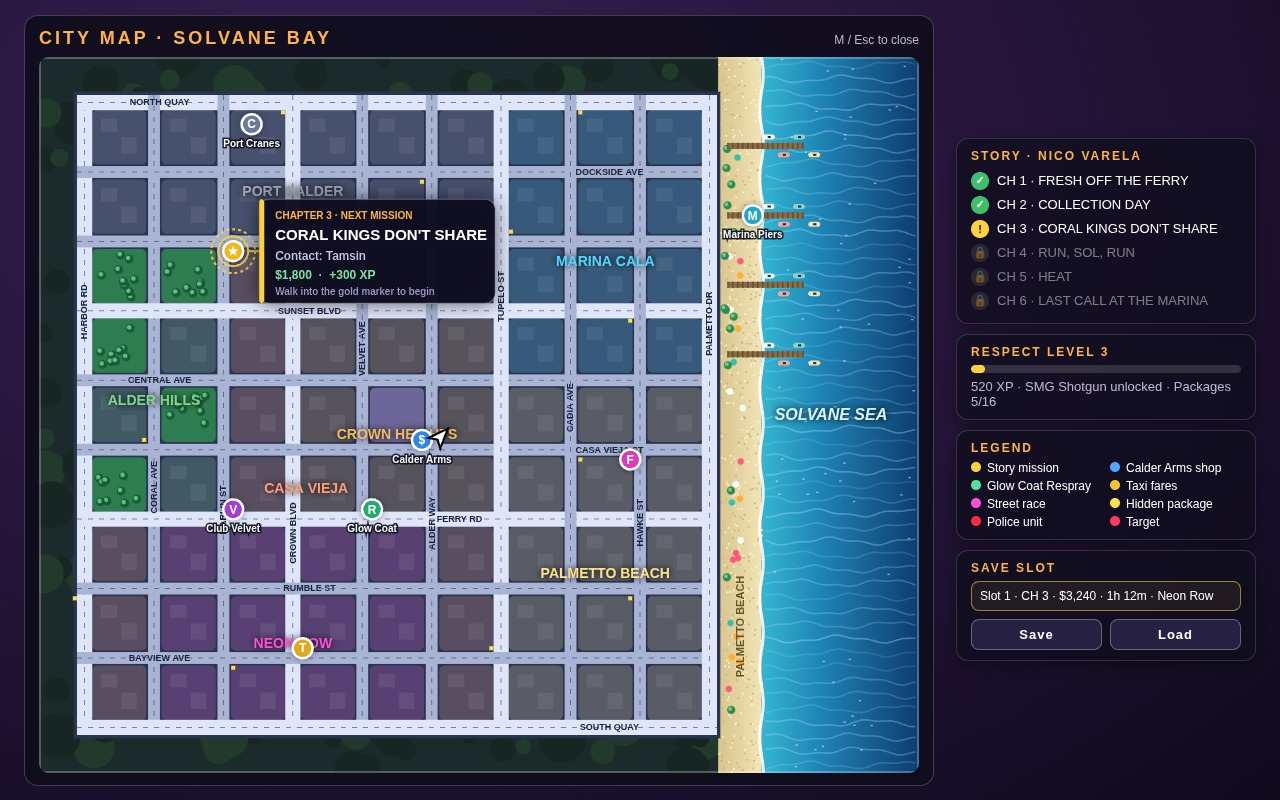
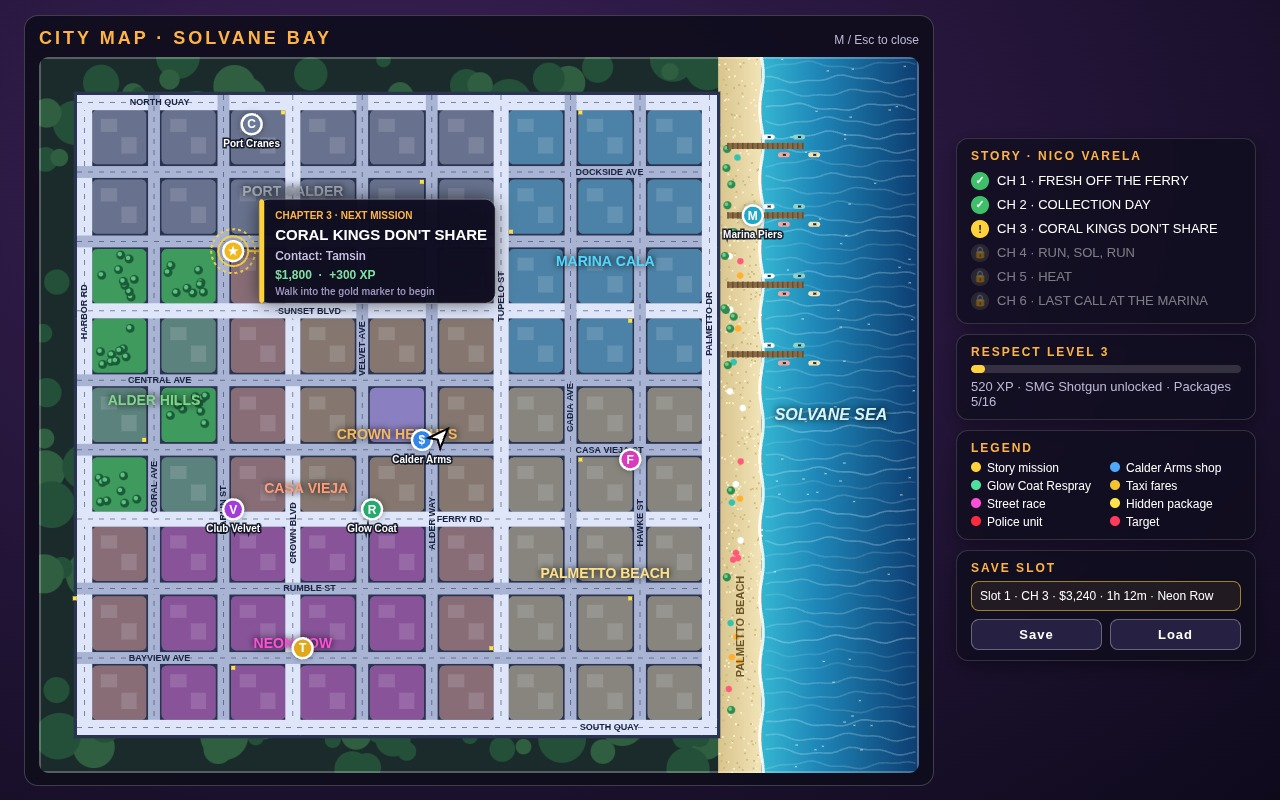
Brighter city map palette, textured tower podiums

Changed region(s): [[0.0312, 0.0625, 0.5625, 0.9688], [0.2812, 0.0625, 0.3125, 0.0938]]

diff --git a/game/src/ui/cityMap.js b/game/src/ui/cityMap.js
@@ -16,7 +16,7 @@ const money = (n) => '$' + Number(n).toLocaleString('en-US');
 function baseMap(g, X, Z, k) {
   const W = g.canvas.width, Hh = g.canvas.height, seaX = X(SEA_X), cw = X(HALF + 8);
   g.fillStyle = '#1b2a2a'; g.fillRect(0, 0, W, Hh);
-  for (let i = 0; i < 260; i++) { g.fillStyle = hash(i, 1) > 0.5 ? '#223a2c' : '#172622'; g.beginPath(); g.arc(hash(i, 2) * cw, hash(i, 3) * Hh, 6 + hash(i, 4) * 18, 0, 7); g.fill(); }
+  for (let i = 0; i < 260; i++) { g.fillStyle = hash(i, 1) > 0.5 ? '#2f5e40' : '#24503a'; g.beginPath(); g.arc(hash(i, 2) * cw, hash(i, 3) * Hh, 6 + hash(i, 4) * 18, 0, 7); g.fill(); }
   // sea: gradient, wave rows and sparkles
   const sg = g.createLinearGradient(seaX, 0, W, 0); sg.addColorStop(0, '#35b6d2'); sg.addColorStop(0.35, '#1f87b8'); sg.addColorStop(1, '#0d3c70'); g.fillStyle = sg; g.fillRect(seaX, 0, W - seaX, Hh);
   g.lineWidth = 1.6; for (let r = 0; r < 52; r++) { const y0 = 8 + r * 14, ph = hash(r, 7) * 6; g.strokeStyle = `rgba(210,242,255,${0.12 + hash(r, 8) * 0.18})`; g.beginPath(); for (let x = seaX + 4; x <= W; x += 6) { const y = y0 + Math.sin(x * 0.07 + ph) * 3 + Math.sin(x * 0.19 + ph * 2) * 1.2; x === seaX + 4 ? g.moveTo(x, y) : g.lineTo(x, y); } g.stroke(); }
@@ -31,8 +31,8 @@ function baseMap(g, X, Z, k) {
   g.fillStyle = '#2a3350'; g.fillRect(X(-HALF - 10), Z(-HALF - 10), (2 * HALF + 20) * k, (2 * HALF + 20) * k);
   for (const b of blocks) {
     const x = X(b.cx - 25), z = Z(b.cz - 25), w = 50 * k; rr(g, x, z, w, w, 5);
-    g.fillStyle = b.type === 'park' ? '#2e7d50' : b.type === 'plaza' ? '#6c6798' : '#323c5c'; g.fill();
-    if (b.type !== 'park' && b.type !== 'plaza') { rr(g, x, z, w, w, 5); g.fillStyle = DISTRICTS[b.district].color + '30'; g.fill(); g.fillStyle = 'rgba(255,255,255,0.07)'; g.fillRect(x + w * 0.16, z + w * 0.16, w * 0.3, w * 0.24); g.fillRect(x + w * 0.54, z + w * 0.5, w * 0.28, w * 0.3); }
+    g.fillStyle = b.type === 'park' ? '#3f9a5e' : b.type === 'plaza' ? '#8a7fc0' : '#4a5578'; g.fill();
+    if (b.type !== 'park' && b.type !== 'plaza') { rr(g, x, z, w, w, 5); g.fillStyle = DISTRICTS[b.district].color + '58'; g.fill(); g.fillStyle = 'rgba(255,255,255,0.13)'; g.fillRect(x + w * 0.16, z + w * 0.16, w * 0.3, w * 0.24); g.fillRect(x + w * 0.54, z + w * 0.5, w * 0.28, w * 0.3); }
     if (b.type === 'park') for (let t = 0; t < 9; t++) { const tx = x + 6 + hash(b.i * 7 + t, b.j) * (w - 12), tz = z + 6 + hash(b.j * 5 + t, b.i + 3) * (w - 12); g.fillStyle = '#1b5a38'; g.beginPath(); g.arc(tx, tz, 4.4, 0, 7); g.fill(); g.fillStyle = '#5cc27f'; g.beginPath(); g.arc(tx - 1, tz - 1, 2.2, 0, 7); g.fill(); }
   }
   // roads: light lines (avenues thicker), dashed centre lines, names

diff --git a/game/src/world/buildingFactory.js b/game/src/world/buildingFactory.js
@@ -40,7 +40,7 @@ export function buildCity(scene, tex, rng) {
       addBox({ x0, x1, z0, z1, h: h + 0.25 });
       let top = h + 0.25;
       if (tower) { // glass tower: podium, setbacks, crown and spire
-        pushBox(D, cx, 0.25, cz, w + 0.6, 6, d + 0.6, 0xe8e4dc);
+        pushBox(B, cx, 0.25, cz, w + 0.6, 6, d + 0.6, 0xf2ece2, true, uo);
         pushBox(T, cx, 6.25, cz, w, h - 6, d, col, true, uo);
         for (const f of [0.35, 0.7]) pushBox(D, cx, 0.25 + h * f, cz, w + 0.5, 0.6, d + 0.5, 0xf4f6f8);
         const s1 = rng.range(0.62, 0.8); pushBox(T, cx, top, cz, w * s1, h * 0.18, d * s1, col, true, uo); top += h * 0.18;
